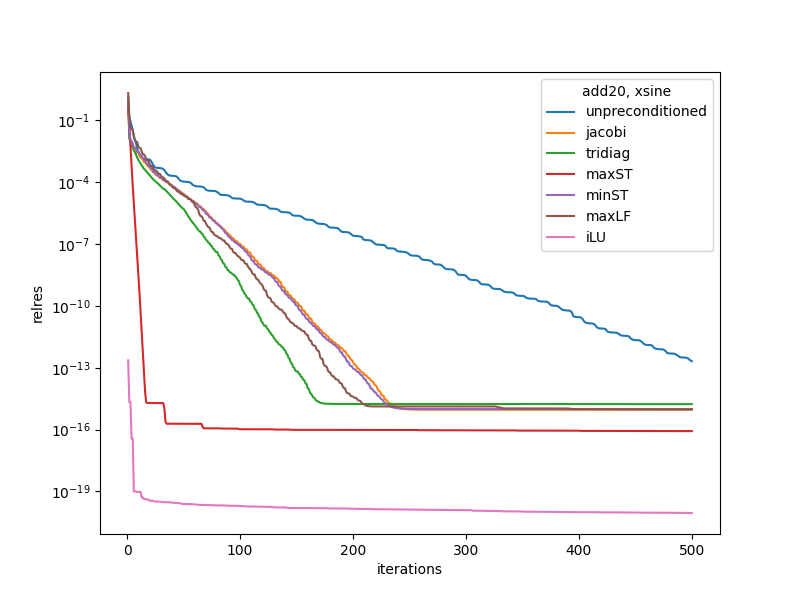
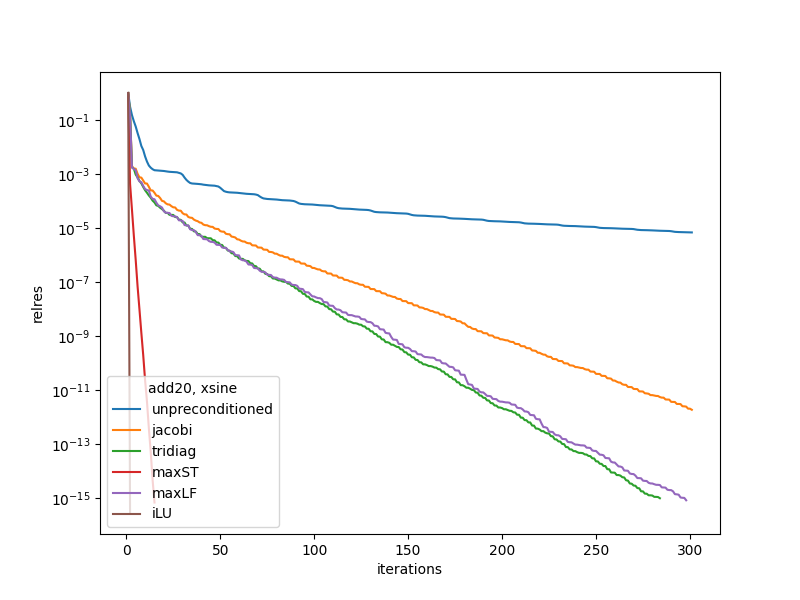
regenerate plots for right preconditioned systems

diff --git a/python/graph.py b/python/graph.py
@@ -205,7 +205,7 @@ def run_trial(mtx, x, M, k_max_outer, k_max_inner):
     residuals = []
 
     # Compare relative residual in each iteration
-    x_gmres, info = krylov.fgmres(mtx, b, M=M, x0=None, tol=0, restrt=k_max_inner, maxiter=k_max_outer,
+    x_gmres, info = krylov.fgmres(mtx, b, M=M, x0=None, tol=1e-15, restrt=k_max_inner, maxiter=k_max_outer,
                                   callback=counter, residuals=residuals)
     relres = np.array(residuals) / np.linalg.norm(b)
 
@@ -257,7 +257,7 @@ def run_trial_precond(mtx, x, k_max_outer=10, k_max_inner=20, title=None, title_
         preconds.append(None)
 
 
-    # 1) Maximum spanning tree preconditioner
+    # Maximum spanning tree preconditioner
     # LU (with the correct permutation) applied to a spanning tree has no fill-in.
     # TODO: factorize the spanning tree conditioner "layer by layer"
     if not mtx_is_symmetric:
@@ -275,7 +275,7 @@ def run_trial_precond(mtx, x, k_max_outer=10, k_max_inner=20, title=None, title_
         preconds.append(None)
 
     
-    # 2) Maximum linear forest preconditioner
+    # Maximum linear forest preconditioner
     # Note: not permuted to tridiagonal system
     if not mtx_is_symmetric:
         LF = linear_forest_precond(mtx, symmetrize=True)
@@ -292,7 +292,7 @@ def run_trial_precond(mtx, x, k_max_outer=10, k_max_inner=20, title=None, title_
         preconds.append(None)
     
 
-    # 3) iLU(0)
+    # iLU(0)
     sc.append(None)
     sd.append(None)
     labels.append('iLU')
@@ -303,7 +303,7 @@ def run_trial_precond(mtx, x, k_max_outer=10, k_max_inner=20, title=None, title_
         preconds.append(None)
 
 
-    # 4) Custom preconditioner    
+    # Custom preconditioner    
     if custom is not None:
         PC = mmread(custom)
 
@@ -335,12 +335,14 @@ def run_trial_precond(mtx, x, k_max_outer=10, k_max_inner=20, title=None, title_
 
         result = run_trial(mtx, x, M=M, k_max_outer=k_max_outer, k_max_inner=k_max_inner)
         relres = result['rk']
-        sols   = result['xk']
-        x_norm = np.linalg.norm(x)
-        fre    = [np.linalg.norm(xk - x) / x_norm for xk in sols]
 
-        print("{}, {} iters, s_coverage: {}, s_degree: {}, relres: {}, fre: {}".format(
-            label, result['iters'], sc[i], sd[i], relres[-1], fre[-1]))
+        # TODO: forward relative error in efficient way
+        #sols   = result['xk']
+        #x_norm = np.linalg.norm(x)
+        #fre    = [np.linalg.norm(xk - x) / x_norm for xk in sols]
+
+        print("{}, {} iters, s_coverage: {}, s_degree: {}, relres: {}".format(
+            label, result['iters'], sc[i], sd[i], relres[-1]))
 
         # Plot results for specific preconditioner
         # TODO: subplot for relres (left) and forward relative error (right)
@@ -367,7 +369,7 @@ def main(mtx_path, seed, max_outer, max_inner, precond=None):
 
     print(f'{title}, rhs: normally distributed')
     run_trial_precond(mtx, x1, k_max_outer=max_outer, k_max_inner=max_inner, 
-                      title_x='randn', custom=precond)
+                      title=title, title_x='randn', custom=precond)
     
     print(f'\n{title}, rhs: ones')
     run_trial_precond(mtx, x2, k_max_outer=max_outer, k_max_inner=max_inner, 
